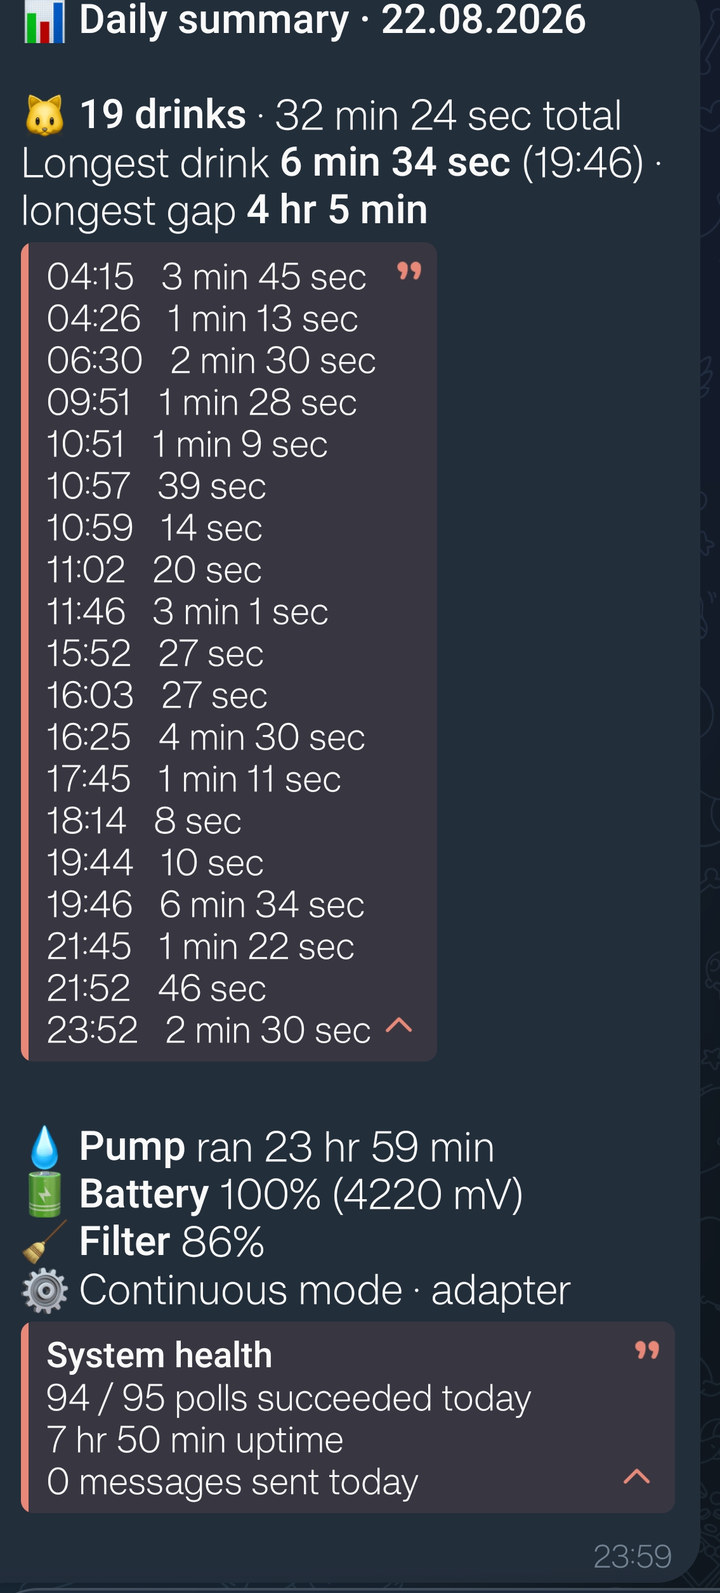
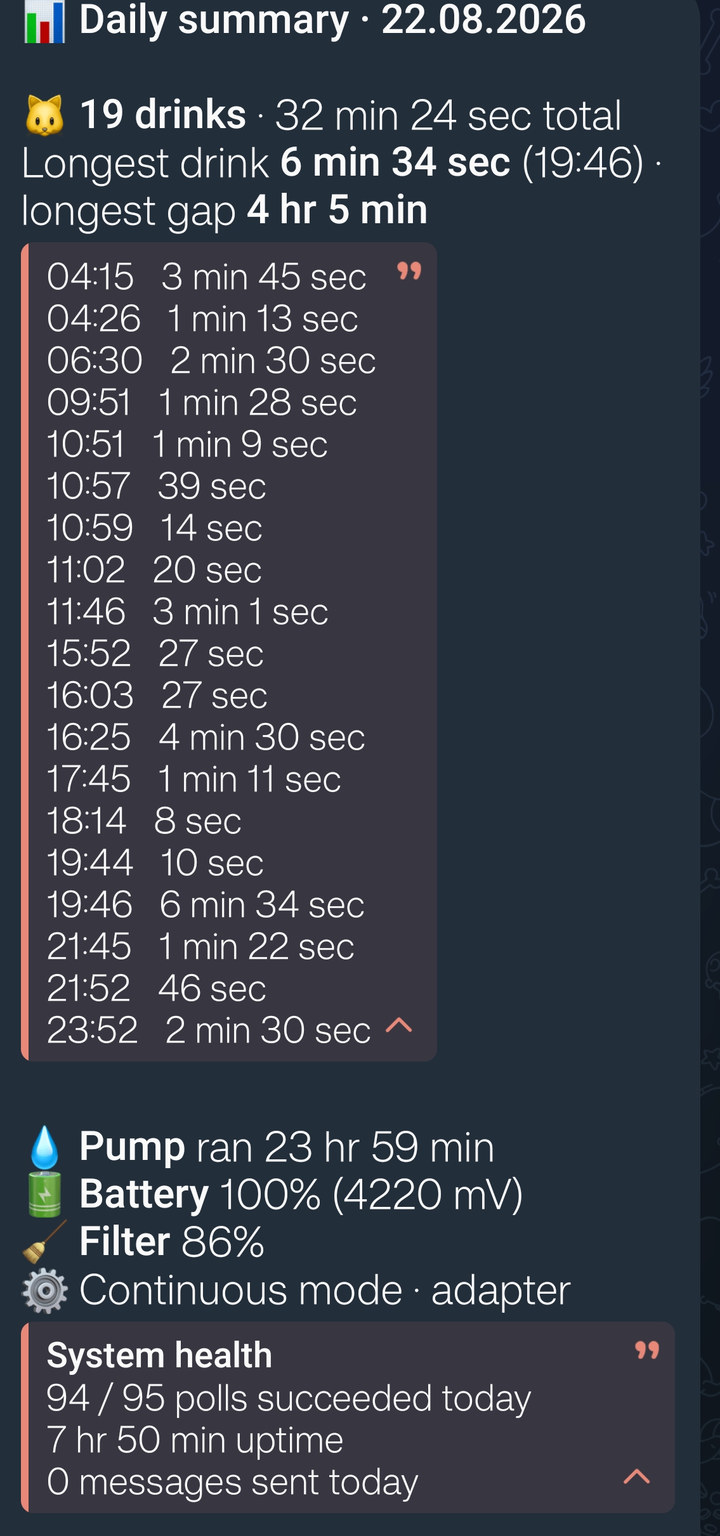
Remove the timestamps from the README screenshots
The daily summary is cropped above its timestamp. The thirst alarm carried
three, one of them inline with "I will not write about this again", which is a
line worth keeping, so those are painted over with the surrounding bubble
colour instead of cropped away.

Dropped the paragraph that pointed at the 23:59 send time. The defect it
described is already documented under Design notes, where it belongs; drawing
attention to it from under the headline screenshot was the wrong place for it.

Claude-Session: https://claude.ai/code/session_01NEq49ppgEt7sFE5P1HPAov

diff --git a/README.md b/README.md
@@ -74,11 +74,6 @@ gateway was awake.
 
 <img src="docs/images/daily-summary.jpg" width="420" alt="Daily summary in Telegram: 19 drinks, 32 min 24 sec total, the full visit list, pump runtime, battery, filter, and a system health receipt">
 
-That screenshot is also evidence of a bug. It went out at **23:59**, and it was
-supposed to arrive after midnight. That single wrong timestamp is what exposed
-the day-close defect described under *Design notes* below. Reports now arrive a
-few minutes after midnight.
-
 The alarm the whole project exists for, and its escalation:
 
 <img src="docs/images/thirst-alarm.jpg" width="420" alt="Telegram messages: startup banner, an eight-hour thirst alarm stating nothing is wrong with the device, and a twelve-hour escalation that promises not to write again">
